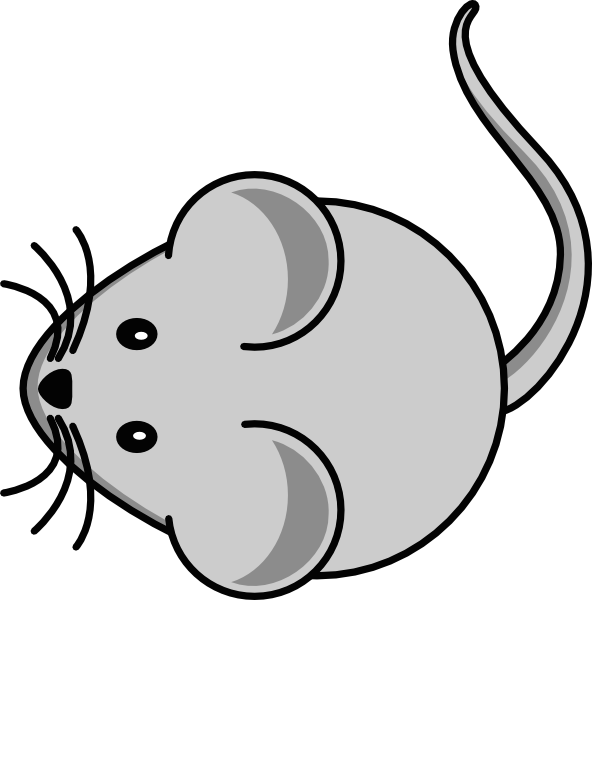
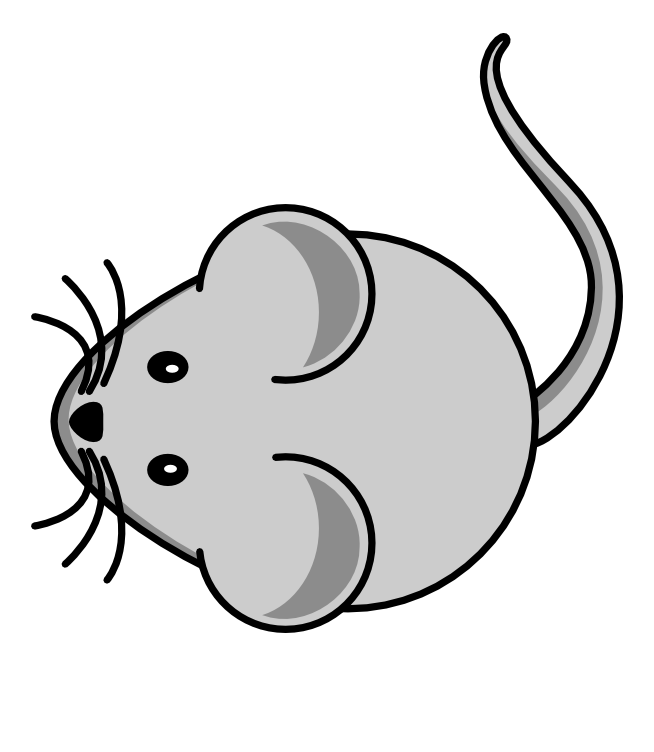
New MazeState class; holds mouseDirection

Changed region(s): [[0.0, 0.0, 1.0, 0.8564], [0.0912, 0.734, 0.1216, 0.7646]]

diff --git a/src/model/GameMazeModel.java b/src/model/GameMazeModel.java
@@ -20,7 +20,7 @@ public class GameMazeModel extends Observable implements Model {
     private final static int STRAIGHT_MOVEMENT_SCORE = 10;
     private int mouseDirection;
     private int[][] maze;
-    private State state;
+    private MazeState state;
     private int score;
     private int numberOfMoves;
     private int minimalNumberOfMoves;
@@ -46,25 +46,25 @@ public class GameMazeModel extends Observable implements Model {
             {WALL, WALL, WALL, WALL, WALL, WALL, WALL, WALL, WALL, WALL, WALL, WALL, WALL, WALL, WALL},
     };
 
-
     public GameMazeModel() {
         this.maze = new int[initialMaze.length][initialMaze[0].length];
-        this.state = new State();
+        this.state = new MazeState();
         this.s = new Serializer();
     }
 
     public boolean move(int dx, int dy, boolean simulate) {
         int x = ((Point) (state.getState())).x;
         int y = ((Point) (state.getState())).y;
-        State current = new State();
+        MazeState current = new MazeState();
         current.setState(new Point(x, y));
         if (getPointValue((x + dx), (y + dy)) >= BLANK) {
             if (!simulate) {
                 // Backup the current state
-                State newState = new State();
+                MazeState newState = new MazeState();
                 newState.setState(new Point((x + dx), (y + dy)));
                 newState.setParentState(state);
                 newState.setLeadingAction(new GameMazeAction(dx, dy));
+                newState.setMouseDirection(mouseDirection);
                 state = newState;
                 numberOfMoves++;
                 if (getPointValue((x + dx), (y + dy)) == CHEESE) {
@@ -205,8 +205,9 @@ public class GameMazeModel extends Observable implements Model {
     @Override
     public void initialize() {
         this.maze = copyOf(initialMaze);
-        this.state = getStartState();
+        this.state = (MazeState) getStartState();
         this.minimalNumberOfMoves = numberOfMovesToSolveGame();
+        this.mouseDirection = maze[((Point) (state.getState())).x][((Point) (state.getState())).y];
         this.numberOfMoves = 0;
         this.score = 0;
         this.gameWon = false;
@@ -218,13 +219,14 @@ public class GameMazeModel extends Observable implements Model {
     @Override
     public void restore() {
         if (state.getParentState() != null) {
-            updateMaze(state, state.getParentState());
             if (state.getLeadingAction().getDx() != 0 && state.getLeadingAction().getDy() != 0) {
                 score -= DIAGONAL_MOVEMENT_SCORE;
             } else {
                 score -= STRAIGHT_MOVEMENT_SCORE;
             }
-            state = state.getParentState();
+            mouseDirection = state.getMouseDirection();
+            updateMaze(state, state.getParentState());
+            state = (MazeState) state.getParentState();
             setChanged();
             notifyObservers();
         }
@@ -302,7 +304,7 @@ public class GameMazeModel extends Observable implements Model {
         for (int row = 0; row < maze.length; row++) {
             for (int column = 0; column < maze[0].length; column++) {
                 if (maze[row][column] > 0 && maze[row][column] != CHEESE) {
-                    State start = new State();
+                    MazeState start = new MazeState();
                     start.setState(new Point(row, column));
                     return start;
                 }
@@ -315,7 +317,7 @@ public class GameMazeModel extends Observable implements Model {
         for (int row = 0; row < maze.length; row++) {
             for (int column = 0; column < maze[0].length; column++) {
                 if (maze[row][column] == CHEESE) {
-                    State goal = new State();
+                    MazeState goal = new MazeState();
                     goal.setState(new Point(row, column));
                     return goal;
                 }

diff --git a/src/model/MazeState.java b/src/model/MazeState.java
@@ -1,0 +1,15 @@
+package model;
+
+import model.algorithms.State;
+
+public class MazeState extends State {
+    private int mouseDirection;
+
+    public int getMouseDirection() {
+        return mouseDirection;
+    }
+
+    public void setMouseDirection(int mouseDirection) {
+        this.mouseDirection = mouseDirection;
+    }
+}
